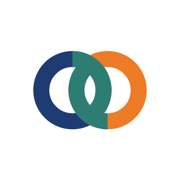
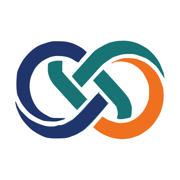
IEUM: 실제 CI 이미지를 픽셀 단위로 벡터 추출한 정식 로고로 교체
- 원본 로고 비트맵을 6배 확대 -> 색 분류 -> 경계 추출 -> 곡선 근사(누끼: 흰 배경 미포함)
- 3가닥 매듭 구조 그대로 재현, symbol+use 로 4곳 재사용, 어두운 배경은 CSS 변수로 남색->흰색
- 실측 CI 컬러 적용: #1F356B / #187474 / #EF701E
- 워드마크 폰트 확대(헤더 22->25, 프로토바 16->18, 사이드 17->19, OS 19->21)
- 앱 아이콘 / OG 썸네일 새 로고로 재생성

diff --git a/index.html b/index.html
@@ -15,7 +15,7 @@
 <meta name="twitter:card" content="summary_large_image">
 
 <meta name="description" content="성남산단 상생 커머스 플랫폼 IEUM — 사람과 기업을 잇다">
-<meta name="theme-color" content="#1F3B73">
+<meta name="theme-color" content="#1F356B">
 <link rel="manifest" href="manifest.json">
 <link rel="apple-touch-icon" href="apple-touch-icon.png">
 <link rel="icon" href="icon-192.png">
@@ -25,7 +25,7 @@
 <meta name="apple-mobile-web-app-title" content="IEUM">
 <style>
 :root{
-  --navy:#1F3B73; --green:#2E7D72; --greenL:#e3f0eb; --coral:#EE7B25; --coralL:#fff0ea;
+  --navy:#1F356B; --green:#187474; --greenL:#e3f0eb; --coral:#EF701E; --coralL:#fff0ea;
   --sand:#f4f1ec; --ink:#20272e; --muted:#7a848d; --line:#e6e9ec; --bg:#f7f8f9; --card:#fff;
 }
 *{box-sizing:border-box;margin:0;padding:0}
@@ -41,8 +41,8 @@ a{color:inherit}
 .protobar .lbl{font-size:12px;color:#9fb4c8;margin-right:4px}
 .protobar button{background:#24384f;color:#cdd8e2;border-radius:20px;padding:6px 15px;font-size:13px;font-weight:600;display:flex;align-items:center;gap:6px}
 .protobar button.on{background:var(--coral);color:#fff}
-.protobar .brand{display:flex;align-items:center;gap:0;font-weight:800;font-size:16px;margin-right:14px}
-.mark{height:1.6em;width:auto;display:inline-block;margin-right:9px;vertical-align:-.45em;flex:none}.mark .nv{stroke:#1F3B73}.mark .or{stroke:#EE7B25}.mark .tl{stroke:#2E7D72}.mark-dark .nv{stroke:#fff}
+.protobar .brand{display:flex;align-items:center;gap:0;font-weight:800;font-size:18px;margin-right:14px}
+.mark{height:1.75em;aspect-ratio:250/165;width:auto;display:inline-block;margin-right:10px;vertical-align:-.5em;flex:none;--ci-navy:#1F356B;--ci-teal:#187474;--ci-orange:#EF701E}.mark-dark{--ci-navy:#fff}
 .rdot{width:8px;height:8px;border-radius:50%;background:var(--coral);display:inline-block}
 .on .rdot{background:#fff}
 
@@ -52,7 +52,7 @@ a{color:inherit}
 
 .shop-head{background:#fff;border-bottom:1px solid var(--line);position:sticky;top:44px;z-index:20}
 .shop-head .in{max-width:1080px;margin:0 auto;display:flex;align-items:center;gap:16px;padding:12px 18px}
-.logo{display:flex;align-items:center;font-size:22px;font-weight:800;color:var(--navy);cursor:pointer}
+.logo{display:flex;align-items:center;font-size:25px;font-weight:800;letter-spacing:.5px;color:var(--navy);cursor:pointer}
 .nav{display:flex;gap:18px;font-size:14px;color:#44505c;font-weight:600}
 .nav a{color:inherit;text-decoration:none;padding:4px 0;border-bottom:2px solid transparent;cursor:pointer}
 .nav a.act{color:var(--green);border-color:var(--green)}
@@ -60,7 +60,7 @@ a{color:inherit}
 .icobtn{background:var(--bg);border-radius:50%;width:38px;height:38px;display:flex;align-items:center;justify-content:center;position:relative}
 .cartbadge{position:absolute;top:-3px;right:-3px;background:var(--coral);color:#fff;font-size:10px;font-weight:800;min-width:17px;height:17px;border-radius:9px;display:flex;align-items:center;justify-content:center;padding:0 4px}
 
-.hero{background:linear-gradient(120deg,#0f5c4a,#2E7D72 55%,#1f8f74);color:#fff;border-radius:18px;padding:34px 32px;position:relative;overflow:hidden}
+.hero{background:linear-gradient(120deg,#0f5c4a,#187474 55%,#1f8f74);color:#fff;border-radius:18px;padding:34px 32px;position:relative;overflow:hidden}
 .hero .tag{display:inline-block;background:rgba(255,255,255,.16);padding:4px 12px;border-radius:20px;font-size:12px;font-weight:600;margin-bottom:12px}
 .hero h1{font-size:30px;font-weight:800;letter-spacing:-.5px;line-height:1.25}
 .hero p{margin-top:8px;color:#d5ede5;font-size:14px}
@@ -176,7 +176,7 @@ a{color:inherit}
 /* 관리자 / 입점기업 공통 */
 .admin{display:flex;min-height:calc(100vh - 44px);background:#eef1f4}
 .side{width:210px;background:var(--navy);color:#cdd8e2;padding:16px 0;flex:none}
-.side .lg{display:flex;align-items:center;color:#fff;font-weight:800;font-size:17px;padding:0 18px 16px}
+.side .lg{display:flex;align-items:center;color:#fff;font-weight:800;font-size:19px;padding:0 18px 16px}
 .side a{display:block;padding:11px 20px;font-size:13.5px;color:#aebccb;text-decoration:none}
 .side a.on{background:#22384f;color:#fff;border-left:3px solid var(--coral)}
 .main{flex:1;padding:22px 26px}
@@ -262,9 +262,10 @@ table.stl{min-width:520px}
 </style>
 </head>
 <body>
+<svg width="0" height="0" style="position:absolute" aria-hidden="true"><symbol id="ieum-mark" viewBox="26.0 17.0 250.0 165.0" fill-rule="evenodd"><path fill="var(--ci-navy,#1F356B)" d="M95.42 18.59C99.21 18.58 104.78 18.52 109.22 19.11C113.66 19.70 117.51 20.43 122.06 22.11C126.60 23.79 132.76 26.93 136.47 29.20C140.17 31.47 142.86 34.26 144.29 35.71C145.72 37.16 146.55 35.65 145.07 37.90C143.58 40.15 137.76 46.63 135.38 49.21C133.00 51.79 133.36 53.69 130.78 53.38C128.19 53.06 123.28 48.86 119.86 47.31C116.43 45.77 114.25 44.83 110.22 44.11C106.19 43.39 99.97 42.82 95.67 43.00C91.36 43.18 88.06 43.94 84.38 45.21C80.70 46.48 76.30 49.05 73.60 50.60C70.90 52.15 69.90 53.01 68.16 54.49C66.41 55.97 64.78 57.56 63.16 59.49C61.53 61.42 60.06 63.07 58.40 66.07C56.74 69.07 54.42 73.91 53.20 77.49C51.98 81.07 51.42 84.19 51.06 87.56C50.69 90.92 50.63 94.03 51.00 97.67C51.37 101.30 51.99 105.26 53.29 109.38C54.58 113.50 56.41 118.34 58.77 122.40C61.12 126.46 63.73 130.38 67.41 133.76C71.09 137.13 77.03 140.61 80.86 142.64C84.68 144.68 85.51 145.35 90.38 145.96L110.07 146.28L108.62 147.96C106.73 148.74 101.52 150.34 98.72 150.99C95.92 151.64 95.29 151.81 91.83 151.83C88.37 151.86 81.70 151.62 77.97 151.13C74.23 150.65 72.94 150.41 69.42 148.91C65.91 147.41 60.45 144.44 56.87 142.13C53.28 139.83 51.09 138.38 47.91 135.09C44.73 131.80 40.39 126.28 37.78 122.39C35.17 118.50 33.59 114.71 32.27 111.73C30.94 108.75 30.41 108.04 29.83 104.50C29.26 100.96 28.84 95.78 28.83 90.50C28.83 85.22 29.24 77.16 29.81 72.81C30.38 68.47 31.00 67.58 32.27 64.43C33.54 61.29 35.70 56.98 37.43 53.93C39.16 50.89 40.26 49.12 42.66 46.16C45.05 43.19 48.79 38.98 51.80 36.13C54.81 33.29 57.59 31.09 60.73 29.07C63.88 27.05 66.36 25.66 70.66 24.01C74.95 22.36 82.38 20.08 86.51 19.18C90.64 18.27 91.64 18.60 95.42 18.59ZM164.60 105.33C167.72 104.42 169.22 109.19 171.67 111.67C174.11 114.15 177.90 118.45 179.29 120.21C180.68 121.97 180.08 121.50 180.00 122.23C179.92 122.97 183.09 119.60 178.79 124.62C174.49 129.65 160.29 145.84 154.21 152.38C148.14 158.91 145.95 160.72 142.33 163.83C138.72 166.94 135.95 169.02 132.53 171.03C129.11 173.05 125.29 174.59 121.81 175.93C118.34 177.28 116.13 178.44 111.69 179.12C107.25 179.80 100.18 180.01 95.17 180.00C90.15 179.99 85.49 179.73 81.61 179.06C77.73 178.38 75.82 177.79 71.87 175.97C67.91 174.15 61.80 170.79 57.87 168.13C53.94 165.48 51.64 163.50 48.29 160.04C44.94 156.59 40.79 152.15 37.74 147.42C34.70 142.69 31.79 136.16 30.01 131.66C28.23 127.16 27.53 122.51 27.08 120.42C26.63 118.34 27.15 119.36 27.30 119.16C27.45 118.95 27.32 117.92 28.00 119.17C28.68 120.41 30.06 124.21 31.39 126.61C32.71 129.01 33.33 130.53 35.96 133.54C38.58 136.56 44.26 142.10 47.12 144.71C49.98 147.32 50.33 147.56 53.11 149.22C55.89 150.89 60.63 153.26 63.81 154.69C66.99 156.12 69.26 156.91 72.21 157.79C75.17 158.67 78.34 159.59 81.54 159.96C84.75 160.32 88.43 160.30 91.46 159.96C94.49 159.61 97.84 158.23 99.72 157.89C101.60 157.54 101.15 158.23 102.72 157.89C104.29 157.54 106.28 157.09 109.16 155.82C112.03 154.56 115.51 153.51 119.97 150.30C124.42 147.09 130.38 142.07 135.88 136.54C141.38 131.01 148.17 122.32 152.96 117.12C157.74 111.92 161.48 106.24 164.60 105.33Z"/><path fill="var(--ci-teal,#187474)" d="M197.60 18.10C201.26 17.92 207.69 17.54 212.61 18.06C217.54 18.57 223.39 20.08 227.16 21.18C230.92 22.28 231.80 22.81 235.19 24.64C238.58 26.47 243.51 28.96 247.51 32.16C251.51 35.35 255.99 39.99 259.17 43.83C262.35 47.68 264.15 50.32 266.59 55.24C269.03 60.17 272.43 69.13 273.79 73.38L274.76 80.71L263.34 63.16C260.39 59.14 259.65 58.94 257.04 56.62C254.44 54.31 250.21 51.01 247.73 49.27C245.26 47.52 245.49 47.51 242.18 46.16C238.87 44.80 231.53 42.14 227.89 41.11C224.25 40.09 223.58 40.17 220.33 40.00C217.09 39.83 211.53 39.86 208.40 40.07C205.27 40.27 204.31 40.50 201.54 41.21C198.78 41.92 194.25 43.42 191.81 44.31C189.37 45.21 189.07 45.29 186.91 46.58C184.76 47.87 181.18 50.40 178.88 52.04C176.58 53.69 175.22 54.58 173.12 56.46C171.02 58.33 172.02 57.10 166.29 63.29C160.56 69.48 143.62 88.41 138.76 93.59C133.89 98.77 137.69 94.35 137.12 94.37C136.55 94.38 137.86 96.36 135.32 93.68C132.79 90.99 124.19 81.18 121.91 78.26C119.63 75.33 121.26 77.06 121.63 76.13C122.01 75.20 118.97 78.56 124.17 72.67C129.36 66.78 146.31 47.62 152.79 40.79C159.27 33.96 158.50 34.77 163.03 31.70C167.57 28.63 175.41 24.44 180.01 22.34C184.61 20.25 187.71 19.85 190.64 19.14C193.58 18.44 193.94 18.28 197.60 18.10ZM97.41 50.91C99.92 50.71 102.20 50.89 103.47 51.03C104.74 51.18 104.75 49.39 105.03 51.80C105.32 54.21 104.61 61.95 105.17 65.50C105.72 69.05 101.70 65.05 108.38 73.12C115.06 81.19 139.22 106.64 145.24 113.92C151.27 121.21 146.96 113.88 144.51 116.84C142.06 119.81 133.20 129.26 130.54 131.71C127.89 134.17 129.33 131.97 128.59 131.58C127.85 131.19 131.89 135.63 126.12 129.38C120.35 123.12 100.44 101.37 93.96 94.04C87.48 86.72 88.99 88.07 87.24 85.42C85.50 82.77 84.47 80.51 83.51 78.16C82.56 75.81 81.93 73.32 81.51 71.32C81.09 69.32 81.05 68.35 81.00 66.17C80.95 63.99 81.05 60.02 81.23 58.23C81.41 56.44 80.89 56.42 82.09 55.42C83.29 54.42 85.86 53.00 88.41 52.24C90.96 51.49 94.90 51.11 97.41 50.91ZM172.61 66.32C175.43 63.85 171.75 64.35 174.54 67.12C177.34 69.89 184.00 77.06 189.38 82.96C194.76 88.86 202.45 97.30 206.81 102.52C211.17 107.75 213.36 110.44 215.53 114.30C217.70 118.16 219.02 122.73 219.82 125.68C220.62 128.63 220.34 129.54 220.33 132.00C220.33 134.46 220.08 138.47 219.79 140.46C219.50 142.44 219.06 143.08 218.58 143.91C218.10 144.74 219.30 144.77 216.92 145.42C214.55 146.08 207.39 147.47 204.33 147.83C201.27 148.20 199.89 147.78 198.57 147.60C197.25 147.42 196.86 147.18 196.41 146.76C195.97 146.33 195.81 146.04 195.90 145.07C195.99 144.09 196.77 142.63 196.92 140.92C197.08 139.22 197.17 136.91 196.82 134.84C196.47 132.78 195.61 130.33 194.82 128.51C194.03 126.69 198.33 131.12 192.09 123.91C185.85 116.70 163.26 91.97 157.40 85.27C151.54 78.56 156.90 84.21 156.94 83.67C156.99 83.12 155.03 84.87 157.64 81.98C160.26 79.09 169.79 68.80 172.61 66.32ZM164.58 104.36C170.94 98.17 164.33 103.11 166.71 105.46C169.09 107.81 176.54 115.90 178.88 118.46C181.21 121.01 180.41 120.07 180.73 120.77C181.06 121.47 184.63 117.86 180.82 122.66C177.01 127.45 163.98 142.79 157.88 149.54C151.78 156.30 147.51 160.12 144.21 163.21C140.91 166.30 139.81 166.95 138.09 168.09L133.86 170.02L144.68 161.84C148.07 158.90 148.34 158.92 154.21 152.38C160.09 145.84 175.66 127.81 179.93 122.60C184.21 117.39 180.21 121.85 179.86 121.14C179.50 120.44 180.28 120.99 177.81 118.36C175.34 115.72 167.50 107.36 165.06 105.34C162.61 103.33 168.99 100.12 163.12 106.29C157.26 112.46 137.61 134.69 129.88 142.38C122.15 150.07 120.36 150.19 116.76 152.42L108.27 155.77L117.07 151.23C120.45 149.03 120.63 150.36 128.54 142.54C136.46 134.73 158.22 110.54 164.58 104.36Z"/><path fill="var(--ci-orange,#EF701E)" d="M212.08 46.58C215.11 46.58 219.93 46.57 223.67 47.17C227.41 47.76 230.54 48.48 234.51 50.16C238.48 51.83 243.55 54.39 247.47 57.20C251.38 60.01 255.37 64.21 258.00 67.00C260.63 69.79 261.80 71.76 263.22 73.94C264.64 76.13 265.10 76.73 266.53 80.13C267.97 83.53 270.74 90.67 271.82 94.34C272.90 98.02 272.83 98.25 273.00 102.17C273.17 106.09 273.39 113.02 272.86 117.86C272.33 122.69 271.04 127.20 269.82 131.16C268.61 135.11 267.49 137.91 265.58 141.58C263.66 145.25 261.18 149.46 258.33 153.17C255.49 156.88 252.39 160.50 248.51 163.84C244.64 167.19 238.69 171.08 235.08 173.24C231.46 175.41 229.92 175.73 226.82 176.82C223.72 177.92 219.79 179.13 216.49 179.82C213.19 180.52 209.71 180.82 207.00 181.00C204.29 181.18 203.48 181.27 200.26 180.91C197.04 180.55 191.77 179.89 187.68 178.82C183.58 177.75 179.74 176.40 175.69 174.48C171.64 172.55 166.36 169.25 163.40 167.27C160.44 165.29 158.95 163.71 157.90 162.60C156.85 161.49 155.22 163.32 157.12 160.58C159.02 157.83 166.80 148.86 169.29 146.12C171.78 143.38 169.85 143.53 172.06 144.14C174.26 144.76 178.44 148.18 182.53 149.80C186.63 151.42 192.92 153.13 196.61 153.89C200.30 154.64 201.60 154.54 204.67 154.33C207.73 154.13 211.73 153.64 214.99 152.66C218.25 151.67 221.54 149.96 224.24 148.41C226.95 146.86 228.81 145.53 231.21 143.38C233.62 141.23 236.63 138.13 238.68 135.51C240.73 132.89 242.14 130.28 243.50 127.67C244.86 125.05 245.93 122.38 246.82 119.82C247.71 117.27 248.51 116.62 248.83 112.33C249.16 108.04 249.28 98.83 248.76 94.08C248.23 89.32 247.40 87.71 245.69 83.81C243.98 79.91 240.78 74.00 238.51 70.66C236.24 67.31 233.85 65.43 232.09 63.74C230.33 62.06 229.54 61.63 227.96 60.54C226.37 59.46 224.69 58.31 222.58 57.26C220.47 56.20 218.69 55.06 215.29 54.21C211.89 53.36 205.84 52.35 202.17 52.17C198.50 51.98 195.66 52.60 193.28 53.11C190.90 53.62 189.02 54.92 187.90 55.23L186.58 55.01L187.08 54.08C188.96 53.11 194.81 50.36 197.88 49.21C200.95 48.06 203.13 47.61 205.50 47.17C207.87 46.73 209.05 46.58 212.08 46.58Z"/></symbol></svg>
 
 <div class="protobar">
-  <span class="brand"><svg class="mark mark-dark" viewBox="0 0 300 210" fill="none" stroke-width="32" aria-hidden="true"><circle class="nv" cx="115" cy="105" r="62"/><circle class="or" cx="185" cy="105" r="62"/><path class="tl" d="M115 43A62 62 0 0 1 154.9 152.5"/><path class="tl" d="M185 167A62 62 0 0 1 145.1 57.5"/></svg>IEUM</span>
+  <span class="brand"><svg class="mark mark-dark" aria-hidden="true"><use href="#ieum-mark"/></svg>IEUM</span>
   <span class="lbl">화면 미리보기</span>
   <button class="on" data-v="shop" onclick="sw('shop',this)">통합몰</button>
   <button data-v="live" onclick="sw('live',this)"><span class="rdot"></span>라이브</button>
@@ -276,7 +277,7 @@ table.stl{min-width:520px}
 <!-- ============ 통합몰 ============ -->
 <section id="shop" class="view on">
   <div class="shop-head"><div class="in">
-    <div class="logo" onclick="sw('shop',document.querySelector('[data-v=shop]'))"><svg class="mark" viewBox="0 0 300 210" fill="none" stroke-width="32" aria-hidden="true"><circle class="nv" cx="115" cy="105" r="62"/><circle class="or" cx="185" cy="105" r="62"/><path class="tl" d="M115 43A62 62 0 0 1 154.9 152.5"/><path class="tl" d="M185 167A62 62 0 0 1 145.1 57.5"/></svg>IEUM</div>
+    <div class="logo" onclick="sw('shop',document.querySelector('[data-v=shop]'))"><svg class="mark" aria-hidden="true"><use href="#ieum-mark"/></svg>IEUM</div>
     <div class="search">성남이 만든 우수 제품을 검색하세요</div>
     <button class="icobtn"><svg class="svgico" viewBox="0 0 24 24"><path d="M18 8a6 6 0 0 0-12 0c0 7-3 9-3 9h18s-3-2-3-9M13.7 21a2 2 0 0 1-3.4 0"/></svg></button>
     <button class="icobtn" onclick="openCart()"><svg class="svgico" viewBox="0 0 24 24"><circle cx="9" cy="21" r="1"/><circle cx="20" cy="21" r="1"/><path d="M1 1h4l2.7 13.4a2 2 0 0 0 2 1.6h9.7a2 2 0 0 0 2-1.6L23 6H6"/></svg><span class="cartbadge" id="cartBadge" style="display:none">0</span></button>
@@ -465,7 +466,7 @@ table.stl{min-width:520px}
 <section id="portal" class="view">
   <div class="admin">
     <div class="side">
-      <div class="lg"><svg class="mark" viewBox="0 0 300 210" fill="none" stroke-width="32" aria-hidden="true"><circle class="nv" cx="115" cy="105" r="62"/><circle class="or" cx="185" cy="105" r="62"/><path class="tl" d="M115 43A62 62 0 0 1 154.9 152.5"/><path class="tl" d="M185 167A62 62 0 0 1 145.1 57.5"/></svg>IEUM PARTNER</div>
+      <div class="lg"><svg class="mark" aria-hidden="true"><use href="#ieum-mark"/></svg>IEUM PARTNER</div>
       <a>대시보드</a><a class="on">내 상품·재고</a><a>주문·CS</a><a>정산·세금계산서</a><a>입점 신청</a>
     </div>
     <div class="main">
@@ -507,7 +508,7 @@ table.stl{min-width:520px}
 <section id="admin" class="view">
   <div class="admin">
     <div class="side">
-      <div class="lg"><svg class="mark" viewBox="0 0 300 210" fill="none" stroke-width="32" aria-hidden="true"><circle class="nv" cx="115" cy="105" r="62"/><circle class="or" cx="185" cy="105" r="62"/><path class="tl" d="M115 43A62 62 0 0 1 154.9 152.5"/><path class="tl" d="M185 167A62 62 0 0 1 145.1 57.5"/></svg>IEUM ADMIN</div>
+      <div class="lg"><svg class="mark" aria-hidden="true"><use href="#ieum-mark"/></svg>IEUM ADMIN</div>
       <a>대시보드</a><a>입점기업 관리</a><a>상품·SKU</a><a>주문·재고</a><a class="on">정산·세금계산서</a><a>라이브 편성</a><a>데이터 리포트</a>
     </div>
     <div class="main">
@@ -556,14 +557,14 @@ table.stl{min-width:520px}
 // ---- 상품 이미지 (SVG 일러스트, 타일 꽉 채움) ----
 var A="<svg viewBox='0 0 120 100' preserveAspectRatio='xMidYMid slice' xmlns='http://www.w3.org/2000/svg'>";
 var IMG={
- det:A+"<rect width='120' height='100' fill='#e3f0eb'/><rect x='38' y='30' width='12' height='7' rx='2' fill='#1F3B73'/><path d='M50 31 h10 v6 h-14 z' fill='#1F3B73'/><rect x='56' y='19' width='16' height='9' rx='2' fill='#1F3B73'/><rect x='60' y='27' width='8' height='7' fill='#1F3B73'/><rect x='50' y='33' width='28' height='53' rx='8' fill='#2E7D72'/><rect x='55' y='48' width='18' height='27' rx='3' fill='#fff'/><rect x='58' y='53' width='12' height='3' rx='1.5' fill='#a9cfc3'/><rect x='58' y='59' width='12' height='3' rx='1.5' fill='#a9cfc3'/><rect x='58' y='65' width='8' height='3' rx='1.5' fill='#a9cfc3'/></svg>",
+ det:A+"<rect width='120' height='100' fill='#e3f0eb'/><rect x='38' y='30' width='12' height='7' rx='2' fill='#1F356B'/><path d='M50 31 h10 v6 h-14 z' fill='#1F356B'/><rect x='56' y='19' width='16' height='9' rx='2' fill='#1F356B'/><rect x='60' y='27' width='8' height='7' fill='#1F356B'/><rect x='50' y='33' width='28' height='53' rx='8' fill='#187474'/><rect x='55' y='48' width='18' height='27' rx='3' fill='#fff'/><rect x='58' y='53' width='12' height='3' rx='1.5' fill='#a9cfc3'/><rect x='58' y='59' width='12' height='3' rx='1.5' fill='#a9cfc3'/><rect x='58' y='65' width='8' height='3' rx='1.5' fill='#a9cfc3'/></svg>",
  tissue:A+"<rect width='120' height='100' fill='#eaf1fb'/><g stroke='#d3def0' stroke-width='1'><rect x='33' y='47' width='23' height='37' rx='3' fill='#fff'/><ellipse cx='44.5' cy='47' rx='11.5' ry='4' fill='#f4f8ff'/><rect x='64' y='47' width='23' height='37' rx='3' fill='#fff'/><ellipse cx='75.5' cy='47' rx='11.5' ry='4' fill='#f4f8ff'/><rect x='48' y='30' width='24' height='37' rx='3' fill='#fff'/><ellipse cx='60' cy='30' rx='12' ry='4.2' fill='#eef4ff'/></g><ellipse cx='60' cy='30' rx='4' ry='1.6' fill='#cdd9ec'/></svg>",
- probiotic:A+"<rect width='120' height='100' fill='#eaf7f0'/><rect x='49' y='25' width='22' height='8' rx='2' fill='#2d8a72'/><rect x='45' y='31' width='30' height='52' rx='6' fill='#3fae90'/><rect x='50' y='42' width='20' height='31' rx='3' fill='#fff'/><circle cx='60' cy='52' r='6' fill='#EE7B25'/><rect x='53' y='63' width='14' height='2.6' rx='1.3' fill='#bfe0d4'/><rect x='53' y='68' width='10' height='2.6' rx='1.3' fill='#bfe0d4'/></svg>",
+ probiotic:A+"<rect width='120' height='100' fill='#eaf7f0'/><rect x='49' y='25' width='22' height='8' rx='2' fill='#2d8a72'/><rect x='45' y='31' width='30' height='52' rx='6' fill='#3fae90'/><rect x='50' y='42' width='20' height='31' rx='3' fill='#fff'/><circle cx='60' cy='52' r='6' fill='#EF701E'/><rect x='53' y='63' width='14' height='2.6' rx='1.3' fill='#bfe0d4'/><rect x='53' y='68' width='10' height='2.6' rx='1.3' fill='#bfe0d4'/></svg>",
  ginseng:A+"<rect width='120' height='100' fill='#fbf1e0'/><rect x='79' y='38' width='7' height='40' rx='3.5' fill='#9a4426'/><rect x='41' y='30' width='33' height='50' rx='3' fill='#b5462a'/><rect x='41' y='30' width='33' height='14' rx='3' fill='#c85a3c'/><rect x='47' y='50' width='21' height='22' rx='2' fill='#f3e2c8'/><circle cx='57.5' cy='61' r='5.5' fill='#b5462a'/></svg>",
- powerstrip:A+"<rect width='120' height='100' fill='#eef1f4'/><rect x='28' y='42' width='60' height='19' rx='5' fill='#fff' stroke='#d0d5da'/><g fill='#1F3B73'><circle cx='41' cy='51.5' r='4.2'/><circle cx='58' cy='51.5' r='4.2'/><circle cx='75' cy='51.5' r='4.2'/></g><path d='M88 51 q13 0 13 13 v16' fill='none' stroke='#1F3B73' stroke-width='3.4'/></svg>",
- soap:A+"<rect width='120' height='100' fill='#fbeef1'/><rect x='37' y='57' width='46' height='17' rx='5' fill='#ef97ab'/><rect x='42' y='43' width='38' height='16' rx='5' fill='#ffd0da'/><rect x='47' y='29' width='30' height='16' rx='5' fill='#EE7B25' opacity='0.82'/><circle cx='62' cy='37' r='3.4' fill='#fff' opacity='.6'/></svg>",
+ powerstrip:A+"<rect width='120' height='100' fill='#eef1f4'/><rect x='28' y='42' width='60' height='19' rx='5' fill='#fff' stroke='#d0d5da'/><g fill='#1F356B'><circle cx='41' cy='51.5' r='4.2'/><circle cx='58' cy='51.5' r='4.2'/><circle cx='75' cy='51.5' r='4.2'/></g><path d='M88 51 q13 0 13 13 v16' fill='none' stroke='#1F356B' stroke-width='3.4'/></svg>",
+ soap:A+"<rect width='120' height='100' fill='#fbeef1'/><rect x='37' y='57' width='46' height='17' rx='5' fill='#ef97ab'/><rect x='42' y='43' width='38' height='16' rx='5' fill='#ffd0da'/><rect x='47' y='29' width='30' height='16' rx='5' fill='#EF701E' opacity='0.82'/><circle cx='62' cy='37' r='3.4' fill='#fff' opacity='.6'/></svg>",
  gloves:A+"<rect width='120' height='100' fill='#eaf1fb'/><g fill='#4a86da'><rect x='46' y='52' width='31' height='29' rx='6'/><rect x='47' y='37' width='6.5' height='19' rx='3'/><rect x='55.5' y='33' width='6.5' height='23' rx='3'/><rect x='64' y='35' width='6.5' height='21' rx='3'/><rect x='72.5' y='39' width='6.5' height='17' rx='3'/><rect x='39' y='53' width='9' height='15' rx='4'/></g><rect x='46' y='75' width='31' height='6' rx='3' fill='#2f6bc0'/></svg>",
- vitamin:A+"<rect width='120' height='100' fill='#eaf7f0'/><ellipse cx='39' cy='79' rx='7' ry='4' fill='#ffd08a'/><ellipse cx='81' cy='81' rx='7' ry='4' fill='#bfe0d4'/><rect x='50' y='27' width='20' height='9' rx='2' fill='#1F3B73'/><rect x='46' y='35' width='28' height='47' rx='6' fill='#EE7B25'/><rect x='51' y='50' width='18' height='25' rx='2' fill='#fff'/><path d='M60 55 v15 M52.5 62.5 h15' stroke='#2E7D72' stroke-width='3.2'/></svg>"
+ vitamin:A+"<rect width='120' height='100' fill='#eaf7f0'/><ellipse cx='39' cy='79' rx='7' ry='4' fill='#ffd08a'/><ellipse cx='81' cy='81' rx='7' ry='4' fill='#bfe0d4'/><rect x='50' y='27' width='20' height='9' rx='2' fill='#1F356B'/><rect x='46' y='35' width='28' height='47' rx='6' fill='#EF701E'/><rect x='51' y='50' width='18' height='25' rx='2' fill='#fff'/><path d='M60 55 v15 M52.5 62.5 h15' stroke='#187474' stroke-width='3.2'/></svg>"
 };
 // ---- 상품 데이터 (k = 이미지 키) ----
 var PRODUCTS=[

diff --git a/os/index.html b/os/index.html
@@ -15,15 +15,15 @@
 <meta name="twitter:card" content="summary_large_image">
 
 <style>
-:root{--navy:#1F3B73;--green:#2E7D72;--greenL:#e8f3ef;--greenL2:#f2f9f6;--coral:#EE7B25;--coralL:#fff0ea;--ink:#20272e;--muted:#7a848d;--line:#e6e9ec;--bg:#f5f7f8}
+:root{--navy:#1F356B;--green:#187474;--greenL:#e8f3ef;--greenL2:#f2f9f6;--coral:#EF701E;--coralL:#fff0ea;--ink:#20272e;--muted:#7a848d;--line:#e6e9ec;--bg:#f5f7f8}
 *{box-sizing:border-box;margin:0;padding:0}
 body{font-family:"Apple SD Gothic Neo","Malgun Gothic",sans-serif;background:var(--bg);color:var(--ink);-webkit-font-smoothing:antialiased}
 button{font-family:inherit;cursor:pointer;border:none}
 .app{display:grid;grid-template-columns:230px 1fr;min-height:100vh}
 /* 사이드바 (밝게) */
 .side{background:#fff;border-right:1px solid var(--line);padding:16px 0;position:sticky;top:0;height:100vh;overflow-y:auto}
-.side .lg{display:flex;align-items:center;font-size:19px;font-weight:800;color:var(--navy);padding:4px 18px 4px}
-.mark{height:1.6em;width:auto;display:inline-block;margin-right:9px;vertical-align:-.45em;flex:none}.mark .nv{stroke:#1F3B73}.mark .or{stroke:#EE7B25}.mark .tl{stroke:#2E7D72}.mark-dark .nv{stroke:#fff}
+.side .lg{display:flex;align-items:center;font-size:21px;font-weight:800;letter-spacing:.4px;color:var(--navy);padding:4px 18px 4px}
+.mark{height:1.75em;aspect-ratio:250/165;width:auto;display:inline-block;margin-right:10px;vertical-align:-.5em;flex:none;--ci-navy:#1F356B;--ci-teal:#187474;--ci-orange:#EF701E}.mark-dark{--ci-navy:#fff}
 .side .os{font-size:11px;color:var(--muted);padding:0 18px 14px;margin-top:2px}
 .side .grp{font-size:10.5px;color:#a7b0b8;font-weight:700;padding:10px 18px 5px;letter-spacing:.3px}
 .side a{display:flex;align-items:center;gap:10px;padding:9px 18px;font-size:13.5px;color:#44505c;text-decoration:none;cursor:pointer;border-left:3px solid transparent}
@@ -97,10 +97,11 @@ td.r{text-align:right}
 </style>
 </head>
 <body>
+<svg width="0" height="0" style="position:absolute" aria-hidden="true"><symbol id="ieum-mark" viewBox="26.0 17.0 250.0 165.0" fill-rule="evenodd"><path fill="var(--ci-navy,#1F356B)" d="M95.42 18.59C99.21 18.58 104.78 18.52 109.22 19.11C113.66 19.70 117.51 20.43 122.06 22.11C126.60 23.79 132.76 26.93 136.47 29.20C140.17 31.47 142.86 34.26 144.29 35.71C145.72 37.16 146.55 35.65 145.07 37.90C143.58 40.15 137.76 46.63 135.38 49.21C133.00 51.79 133.36 53.69 130.78 53.38C128.19 53.06 123.28 48.86 119.86 47.31C116.43 45.77 114.25 44.83 110.22 44.11C106.19 43.39 99.97 42.82 95.67 43.00C91.36 43.18 88.06 43.94 84.38 45.21C80.70 46.48 76.30 49.05 73.60 50.60C70.90 52.15 69.90 53.01 68.16 54.49C66.41 55.97 64.78 57.56 63.16 59.49C61.53 61.42 60.06 63.07 58.40 66.07C56.74 69.07 54.42 73.91 53.20 77.49C51.98 81.07 51.42 84.19 51.06 87.56C50.69 90.92 50.63 94.03 51.00 97.67C51.37 101.30 51.99 105.26 53.29 109.38C54.58 113.50 56.41 118.34 58.77 122.40C61.12 126.46 63.73 130.38 67.41 133.76C71.09 137.13 77.03 140.61 80.86 142.64C84.68 144.68 85.51 145.35 90.38 145.96L110.07 146.28L108.62 147.96C106.73 148.74 101.52 150.34 98.72 150.99C95.92 151.64 95.29 151.81 91.83 151.83C88.37 151.86 81.70 151.62 77.97 151.13C74.23 150.65 72.94 150.41 69.42 148.91C65.91 147.41 60.45 144.44 56.87 142.13C53.28 139.83 51.09 138.38 47.91 135.09C44.73 131.80 40.39 126.28 37.78 122.39C35.17 118.50 33.59 114.71 32.27 111.73C30.94 108.75 30.41 108.04 29.83 104.50C29.26 100.96 28.84 95.78 28.83 90.50C28.83 85.22 29.24 77.16 29.81 72.81C30.38 68.47 31.00 67.58 32.27 64.43C33.54 61.29 35.70 56.98 37.43 53.93C39.16 50.89 40.26 49.12 42.66 46.16C45.05 43.19 48.79 38.98 51.80 36.13C54.81 33.29 57.59 31.09 60.73 29.07C63.88 27.05 66.36 25.66 70.66 24.01C74.95 22.36 82.38 20.08 86.51 19.18C90.64 18.27 91.64 18.60 95.42 18.59ZM164.60 105.33C167.72 104.42 169.22 109.19 171.67 111.67C174.11 114.15 177.90 118.45 179.29 120.21C180.68 121.97 180.08 121.50 180.00 122.23C179.92 122.97 183.09 119.60 178.79 124.62C174.49 129.65 160.29 145.84 154.21 152.38C148.14 158.91 145.95 160.72 142.33 163.83C138.72 166.94 135.95 169.02 132.53 171.03C129.11 173.05 125.29 174.59 121.81 175.93C118.34 177.28 116.13 178.44 111.69 179.12C107.25 179.80 100.18 180.01 95.17 180.00C90.15 179.99 85.49 179.73 81.61 179.06C77.73 178.38 75.82 177.79 71.87 175.97C67.91 174.15 61.80 170.79 57.87 168.13C53.94 165.48 51.64 163.50 48.29 160.04C44.94 156.59 40.79 152.15 37.74 147.42C34.70 142.69 31.79 136.16 30.01 131.66C28.23 127.16 27.53 122.51 27.08 120.42C26.63 118.34 27.15 119.36 27.30 119.16C27.45 118.95 27.32 117.92 28.00 119.17C28.68 120.41 30.06 124.21 31.39 126.61C32.71 129.01 33.33 130.53 35.96 133.54C38.58 136.56 44.26 142.10 47.12 144.71C49.98 147.32 50.33 147.56 53.11 149.22C55.89 150.89 60.63 153.26 63.81 154.69C66.99 156.12 69.26 156.91 72.21 157.79C75.17 158.67 78.34 159.59 81.54 159.96C84.75 160.32 88.43 160.30 91.46 159.96C94.49 159.61 97.84 158.23 99.72 157.89C101.60 157.54 101.15 158.23 102.72 157.89C104.29 157.54 106.28 157.09 109.16 155.82C112.03 154.56 115.51 153.51 119.97 150.30C124.42 147.09 130.38 142.07 135.88 136.54C141.38 131.01 148.17 122.32 152.96 117.12C157.74 111.92 161.48 106.24 164.60 105.33Z"/><path fill="var(--ci-teal,#187474)" d="M197.60 18.10C201.26 17.92 207.69 17.54 212.61 18.06C217.54 18.57 223.39 20.08 227.16 21.18C230.92 22.28 231.80 22.81 235.19 24.64C238.58 26.47 243.51 28.96 247.51 32.16C251.51 35.35 255.99 39.99 259.17 43.83C262.35 47.68 264.15 50.32 266.59 55.24C269.03 60.17 272.43 69.13 273.79 73.38L274.76 80.71L263.34 63.16C260.39 59.14 259.65 58.94 257.04 56.62C254.44 54.31 250.21 51.01 247.73 49.27C245.26 47.52 245.49 47.51 242.18 46.16C238.87 44.80 231.53 42.14 227.89 41.11C224.25 40.09 223.58 40.17 220.33 40.00C217.09 39.83 211.53 39.86 208.40 40.07C205.27 40.27 204.31 40.50 201.54 41.21C198.78 41.92 194.25 43.42 191.81 44.31C189.37 45.21 189.07 45.29 186.91 46.58C184.76 47.87 181.18 50.40 178.88 52.04C176.58 53.69 175.22 54.58 173.12 56.46C171.02 58.33 172.02 57.10 166.29 63.29C160.56 69.48 143.62 88.41 138.76 93.59C133.89 98.77 137.69 94.35 137.12 94.37C136.55 94.38 137.86 96.36 135.32 93.68C132.79 90.99 124.19 81.18 121.91 78.26C119.63 75.33 121.26 77.06 121.63 76.13C122.01 75.20 118.97 78.56 124.17 72.67C129.36 66.78 146.31 47.62 152.79 40.79C159.27 33.96 158.50 34.77 163.03 31.70C167.57 28.63 175.41 24.44 180.01 22.34C184.61 20.25 187.71 19.85 190.64 19.14C193.58 18.44 193.94 18.28 197.60 18.10ZM97.41 50.91C99.92 50.71 102.20 50.89 103.47 51.03C104.74 51.18 104.75 49.39 105.03 51.80C105.32 54.21 104.61 61.95 105.17 65.50C105.72 69.05 101.70 65.05 108.38 73.12C115.06 81.19 139.22 106.64 145.24 113.92C151.27 121.21 146.96 113.88 144.51 116.84C142.06 119.81 133.20 129.26 130.54 131.71C127.89 134.17 129.33 131.97 128.59 131.58C127.85 131.19 131.89 135.63 126.12 129.38C120.35 123.12 100.44 101.37 93.96 94.04C87.48 86.72 88.99 88.07 87.24 85.42C85.50 82.77 84.47 80.51 83.51 78.16C82.56 75.81 81.93 73.32 81.51 71.32C81.09 69.32 81.05 68.35 81.00 66.17C80.95 63.99 81.05 60.02 81.23 58.23C81.41 56.44 80.89 56.42 82.09 55.42C83.29 54.42 85.86 53.00 88.41 52.24C90.96 51.49 94.90 51.11 97.41 50.91ZM172.61 66.32C175.43 63.85 171.75 64.35 174.54 67.12C177.34 69.89 184.00 77.06 189.38 82.96C194.76 88.86 202.45 97.30 206.81 102.52C211.17 107.75 213.36 110.44 215.53 114.30C217.70 118.16 219.02 122.73 219.82 125.68C220.62 128.63 220.34 129.54 220.33 132.00C220.33 134.46 220.08 138.47 219.79 140.46C219.50 142.44 219.06 143.08 218.58 143.91C218.10 144.74 219.30 144.77 216.92 145.42C214.55 146.08 207.39 147.47 204.33 147.83C201.27 148.20 199.89 147.78 198.57 147.60C197.25 147.42 196.86 147.18 196.41 146.76C195.97 146.33 195.81 146.04 195.90 145.07C195.99 144.09 196.77 142.63 196.92 140.92C197.08 139.22 197.17 136.91 196.82 134.84C196.47 132.78 195.61 130.33 194.82 128.51C194.03 126.69 198.33 131.12 192.09 123.91C185.85 116.70 163.26 91.97 157.40 85.27C151.54 78.56 156.90 84.21 156.94 83.67C156.99 83.12 155.03 84.87 157.64 81.98C160.26 79.09 169.79 68.80 172.61 66.32ZM164.58 104.36C170.94 98.17 164.33 103.11 166.71 105.46C169.09 107.81 176.54 115.90 178.88 118.46C181.21 121.01 180.41 120.07 180.73 120.77C181.06 121.47 184.63 117.86 180.82 122.66C177.01 127.45 163.98 142.79 157.88 149.54C151.78 156.30 147.51 160.12 144.21 163.21C140.91 166.30 139.81 166.95 138.09 168.09L133.86 170.02L144.68 161.84C148.07 158.90 148.34 158.92 154.21 152.38C160.09 145.84 175.66 127.81 179.93 122.60C184.21 117.39 180.21 121.85 179.86 121.14C179.50 120.44 180.28 120.99 177.81 118.36C175.34 115.72 167.50 107.36 165.06 105.34C162.61 103.33 168.99 100.12 163.12 106.29C157.26 112.46 137.61 134.69 129.88 142.38C122.15 150.07 120.36 150.19 116.76 152.42L108.27 155.77L117.07 151.23C120.45 149.03 120.63 150.36 128.54 142.54C136.46 134.73 158.22 110.54 164.58 104.36Z"/><path fill="var(--ci-orange,#EF701E)" d="M212.08 46.58C215.11 46.58 219.93 46.57 223.67 47.17C227.41 47.76 230.54 48.48 234.51 50.16C238.48 51.83 243.55 54.39 247.47 57.20C251.38 60.01 255.37 64.21 258.00 67.00C260.63 69.79 261.80 71.76 263.22 73.94C264.64 76.13 265.10 76.73 266.53 80.13C267.97 83.53 270.74 90.67 271.82 94.34C272.90 98.02 272.83 98.25 273.00 102.17C273.17 106.09 273.39 113.02 272.86 117.86C272.33 122.69 271.04 127.20 269.82 131.16C268.61 135.11 267.49 137.91 265.58 141.58C263.66 145.25 261.18 149.46 258.33 153.17C255.49 156.88 252.39 160.50 248.51 163.84C244.64 167.19 238.69 171.08 235.08 173.24C231.46 175.41 229.92 175.73 226.82 176.82C223.72 177.92 219.79 179.13 216.49 179.82C213.19 180.52 209.71 180.82 207.00 181.00C204.29 181.18 203.48 181.27 200.26 180.91C197.04 180.55 191.77 179.89 187.68 178.82C183.58 177.75 179.74 176.40 175.69 174.48C171.64 172.55 166.36 169.25 163.40 167.27C160.44 165.29 158.95 163.71 157.90 162.60C156.85 161.49 155.22 163.32 157.12 160.58C159.02 157.83 166.80 148.86 169.29 146.12C171.78 143.38 169.85 143.53 172.06 144.14C174.26 144.76 178.44 148.18 182.53 149.80C186.63 151.42 192.92 153.13 196.61 153.89C200.30 154.64 201.60 154.54 204.67 154.33C207.73 154.13 211.73 153.64 214.99 152.66C218.25 151.67 221.54 149.96 224.24 148.41C226.95 146.86 228.81 145.53 231.21 143.38C233.62 141.23 236.63 138.13 238.68 135.51C240.73 132.89 242.14 130.28 243.50 127.67C244.86 125.05 245.93 122.38 246.82 119.82C247.71 117.27 248.51 116.62 248.83 112.33C249.16 108.04 249.28 98.83 248.76 94.08C248.23 89.32 247.40 87.71 245.69 83.81C243.98 79.91 240.78 74.00 238.51 70.66C236.24 67.31 233.85 65.43 232.09 63.74C230.33 62.06 229.54 61.63 227.96 60.54C226.37 59.46 224.69 58.31 222.58 57.26C220.47 56.20 218.69 55.06 215.29 54.21C211.89 53.36 205.84 52.35 202.17 52.17C198.50 51.98 195.66 52.60 193.28 53.11C190.90 53.62 189.02 54.92 187.90 55.23L186.58 55.01L187.08 54.08C188.96 53.11 194.81 50.36 197.88 49.21C200.95 48.06 203.13 47.61 205.50 47.17C207.87 46.73 209.05 46.58 212.08 46.58Z"/></symbol></svg>
 <div class="app">
   <!-- 사이드바 -->
   <nav class="side">
-    <div class="lg"><svg class="mark" viewBox="0 0 300 210" fill="none" stroke-width="32" aria-hidden="true"><circle class="nv" cx="115" cy="105" r="62"/><circle class="or" cx="185" cy="105" r="62"/><path class="tl" d="M115 43A62 62 0 0 1 154.9 152.5"/><path class="tl" d="M185 167A62 62 0 0 1 145.1 57.5"/></svg>IEUM OS</div>
+    <div class="lg"><svg class="mark" aria-hidden="true"><use href="#ieum-mark"/></svg>IEUM OS</div>
     <div class="os">스튜디오·폐쇄몰 운영</div>
     <div class="grp">운영</div>
     <a class="on" data-v="dash" onclick="go('dash',this)"><svg class="ic" viewBox="0 0 24 24"><rect x="3" y="3" width="7" height="7"/><rect x="14" y="3" width="7" height="7"/><rect x="3" y="14" width="7" height="7"/><rect x="14" y="14" width="7" height="7"/></svg>대시보드</a>
@@ -140,9 +141,9 @@ td.r{text-align:right}
           <div class="panel" style="margin-top:0">
             <h3>오늘 방송 편성 <span class="more">스튜디오 편성 &gt;</span></h3>
             <div class="list">
-              <div class="it"><span class="tt">11:00</span><span class="dotc" style="background:#2E7D72"></span><b>주방 스튜디오</b> · 위생기업사 친환경 생활용품 <span class="st live" style="margin-left:auto">진행중</span></div>
+              <div class="it"><span class="tt">11:00</span><span class="dotc" style="background:#187474"></span><b>주방 스튜디오</b> · 위생기업사 친환경 생활용품 <span class="st live" style="margin-left:auto">진행중</span></div>
               <div class="it"><span class="tt">14:00</span><span class="dotc" style="background:#2f6bc0"></span><b>패션 스튜디오</b> · 한보텍스타일 니트 신상 <span class="st mut" style="margin-left:auto">예정</span></div>
-              <div class="it"><span class="tt">16:00</span><span class="dotc" style="background:#EE7B25"></span><b>뷰티 스튜디오</b> · 그린명품제약 이너뷰티 <span class="st mut" style="margin-left:auto">예정</span></div>
+              <div class="it"><span class="tt">16:00</span><span class="dotc" style="background:#EF701E"></span><b>뷰티 스튜디오</b> · 그린명품제약 이너뷰티 <span class="st mut" style="margin-left:auto">예정</span></div>
             </div>
           </div>
           <div class="panel" style="margin-top:0">
